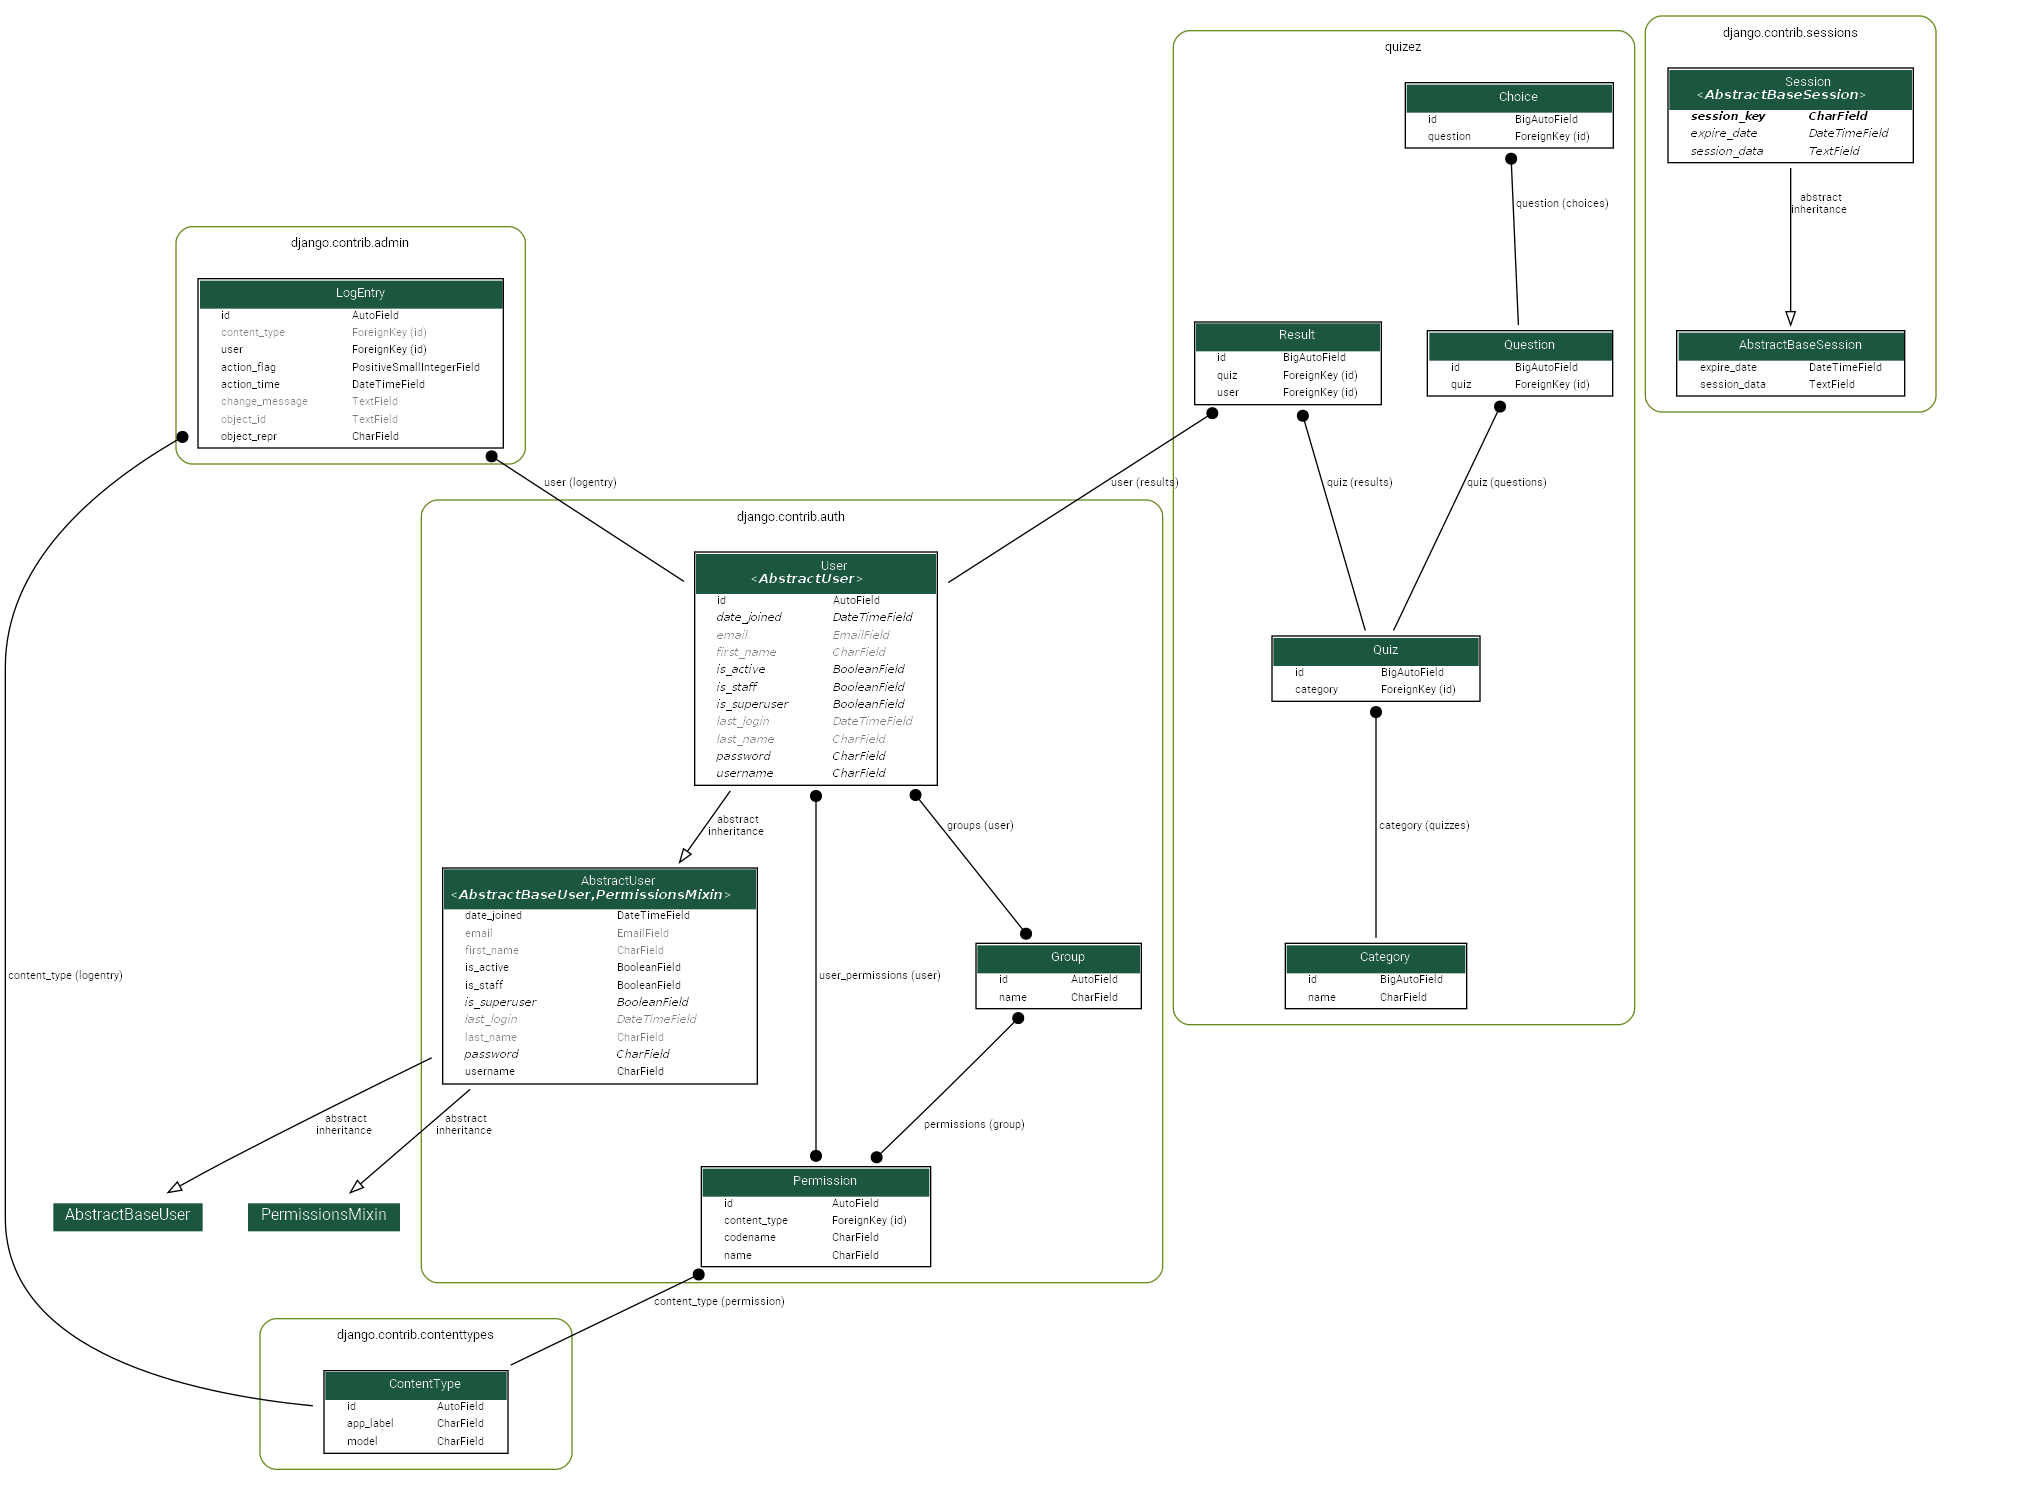
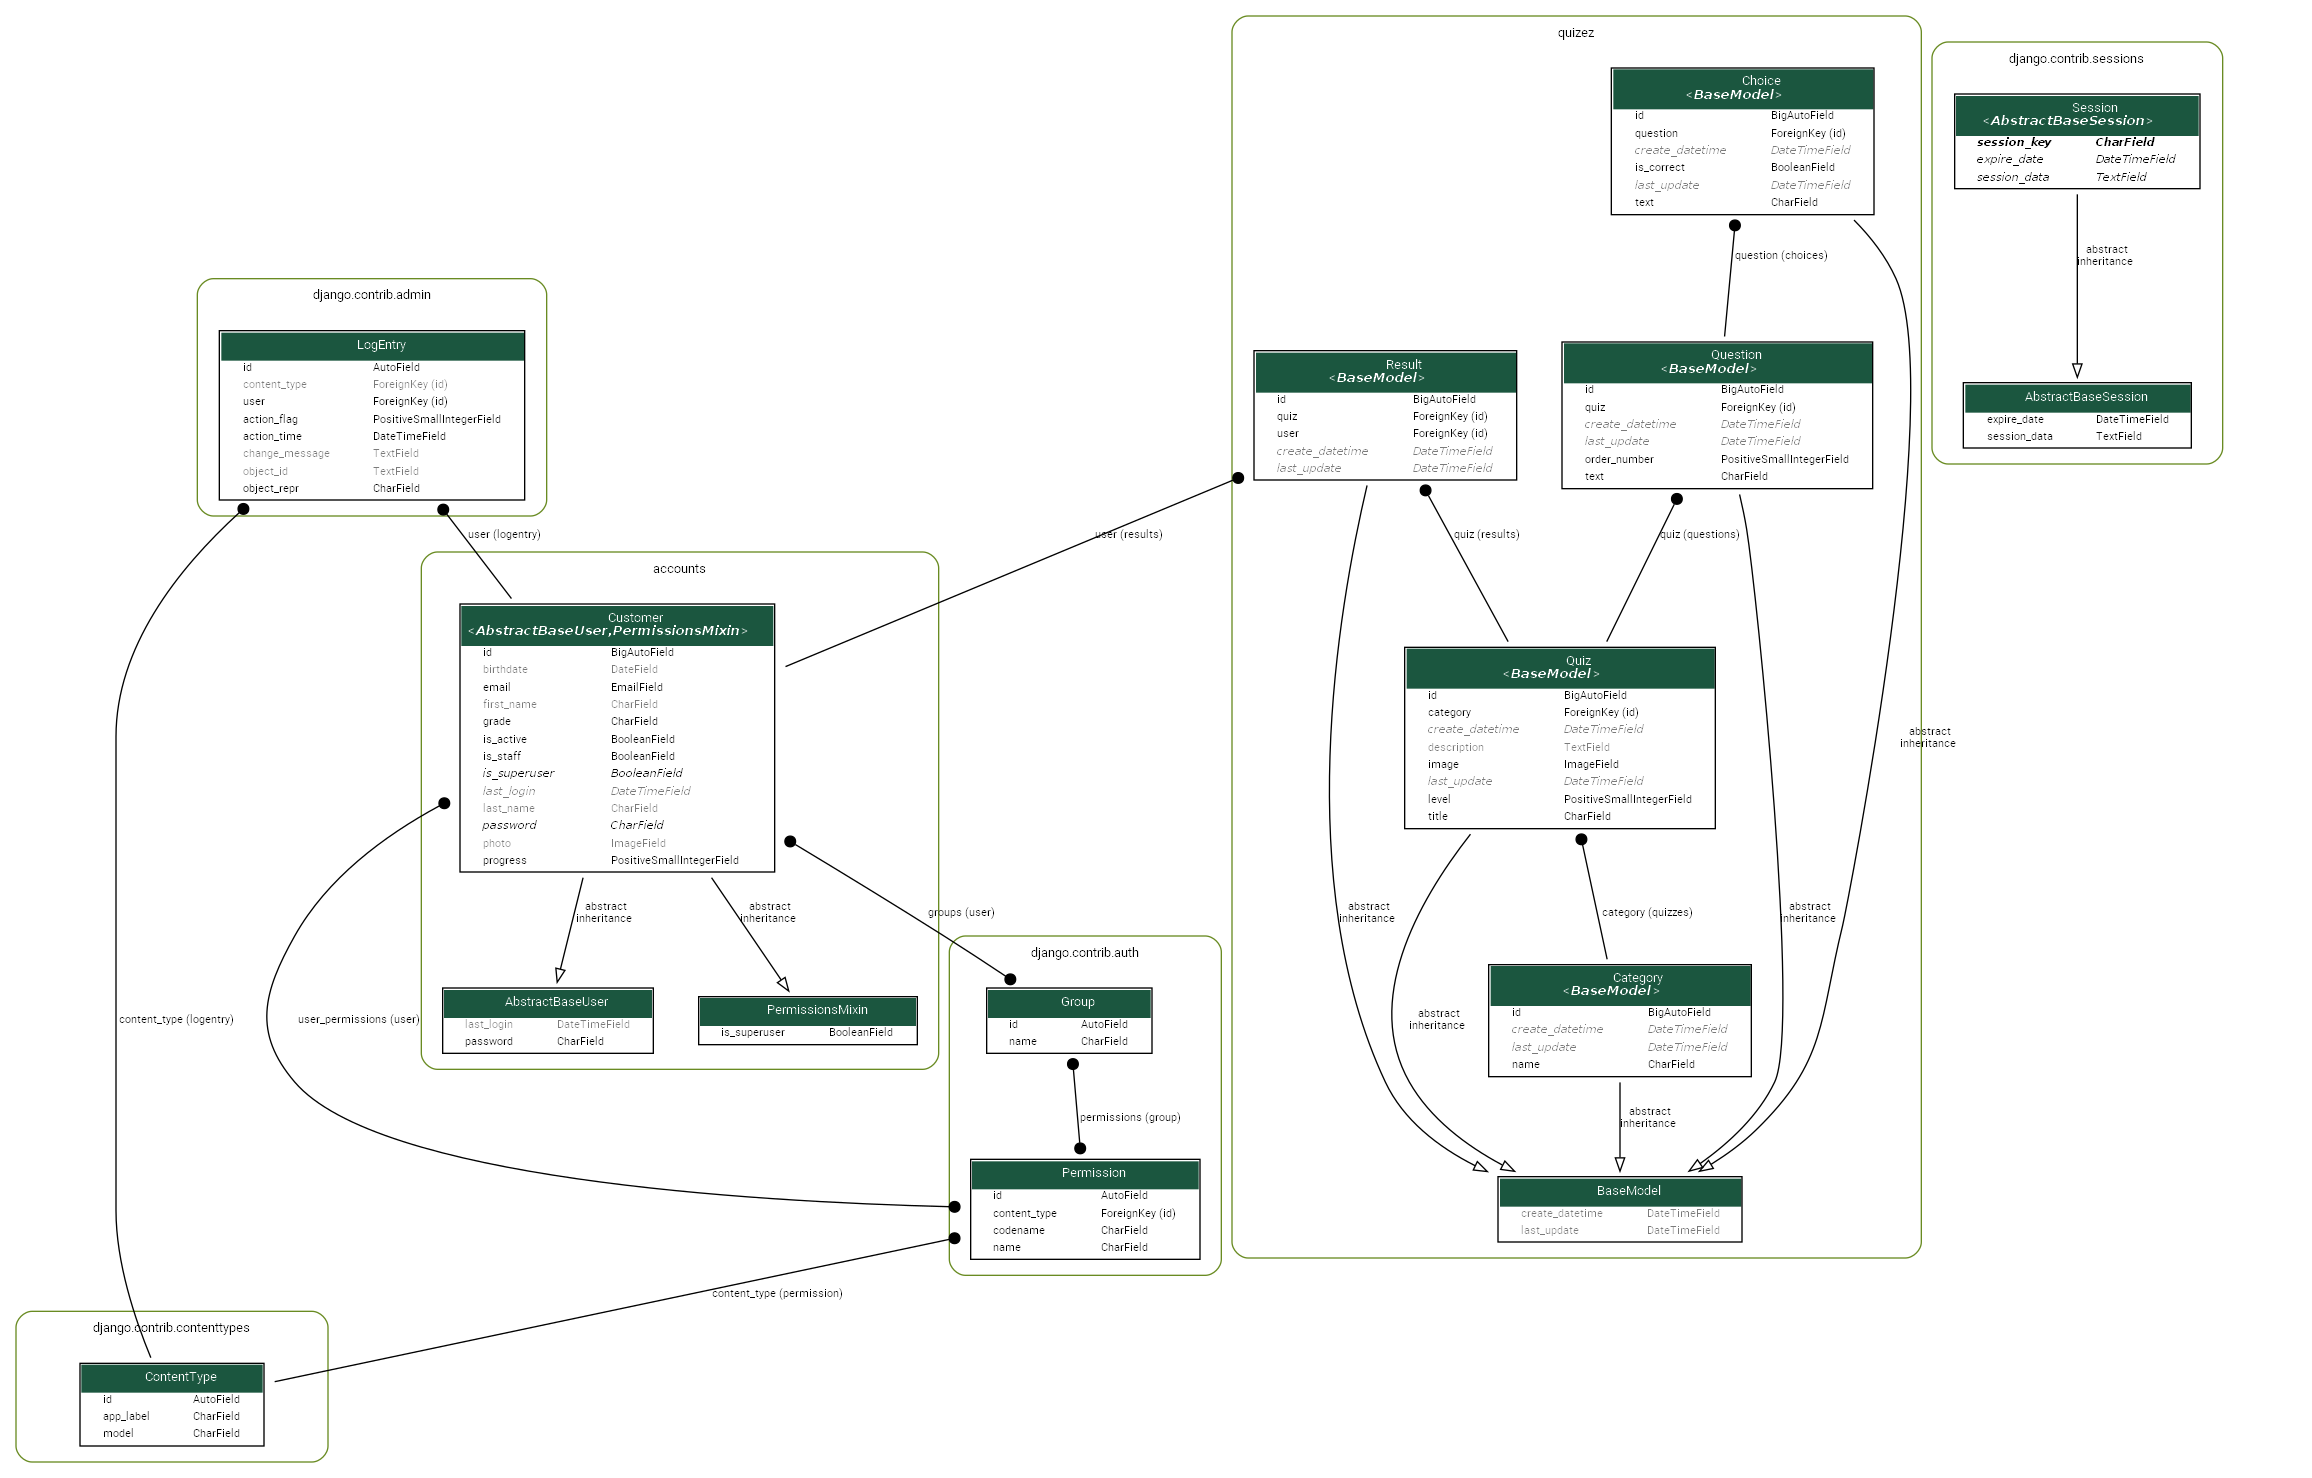
Added tests and API docs

diff --git a/src/accounts/tests/tests.py b/src/accounts/tests/tests.py
@@ -1,0 +1,43 @@
+import unittest
+from http import HTTPStatus
+
+from django.contrib.auth import get_user_model
+from django.test import Client, TestCase
+from django.urls import reverse
+
+
+class TestCustomer(TestCase):
+    def setUp(self) -> None:
+        self.client = Client()
+
+        self.user = get_user_model().objects.create(email="customer@customer.com")
+        self.user.set_password("123456")
+        self.user.save()
+
+        self.admin = get_user_model().objects.create(email="admin@customer.com", is_staff=True)
+        self.admin.set_password("123456")
+        self.admin.save()
+
+    def test_user_login_wrong_email(self):
+        user_login = self.client.login(email="wrong_email", password="123456")
+        self.assertFalse(user_login)
+
+    def test_user_login_wrong_password(self):
+        user_login = self.client.login(email="customer@customer.com", password="wrong_password")
+        self.assertFalse(user_login)
+
+    @unittest.skip("We dont have index page")
+    def test_user_access(self):
+        self.client.force_login(self.user)
+        response = self.client.get(reverse("index"))
+        self.assertEqual(response.status_code, HTTPStatus.OK)
+
+    def test_user_access_admin_panel(self):
+        self.client.force_login(self.user)
+        response = self.client.get(reverse("admin:index"))
+        self.assertEqual(response.status_code, HTTPStatus.FOUND)
+
+    def test_admin_access_admin_panel(self):
+        self.client.force_login(self.admin)
+        response = self.client.get(reverse("admin:index"))
+        self.assertEqual(response.status_code, HTTPStatus.OK)

diff --git a/src/api/tests/tests.py b/src/api/tests/tests.py
@@ -1,0 +1,33 @@
+from django.contrib.auth import get_user_model
+from django.test import TestCase
+from django.urls import reverse
+from rest_framework.status import (HTTP_200_OK, HTTP_401_UNAUTHORIZED,
+                                   HTTP_403_FORBIDDEN)
+from rest_framework.test import APIClient
+
+from core.utils.samples import sample_question, sample_quiz
+
+
+class TestAPI(TestCase):
+    def setUp(self):
+        self.client = APIClient()
+        self.quiz = sample_quiz(level=1, title="test", description="TEST")
+        self.question = sample_question(quiz=self.quiz, order_number=1)
+        self.user = get_user_model().objects.create(email="test@customer.com")
+        self.user.set_password("123456")
+        self.user.save()
+
+    def test_question_detail(self):
+        self.client.force_authenticate(user=self.user)
+
+        result = self.client.get(
+            reverse("api:question_detail", kwargs={"pk": self.quiz.pk, "order": self.question.order_number})
+        )
+        self.assertEqual(result.status_code, HTTP_200_OK)
+        self.assertEqual(result.data, {"id": 1, "order_number": 1, "text": "Some text", "choices": []})
+
+    def test_question_detail_no_access(self):
+        result = self.client.get(
+            reverse("api:question_detail", kwargs={"pk": self.quiz.pk, "order": self.question.order_number})
+        )
+        self.assertEqual(result.status_code, HTTP_401_UNAUTHORIZED)

diff --git a/src/api/urls.py b/src/api/urls.py
@@ -15,7 +15,9 @@ Including another URLconf
 """
 from django.contrib import admin
 from django.urls import include, path
-from rest_framework import routers
+from drf_yasg import openapi
+from drf_yasg.views import get_schema_view
+from rest_framework import permissions, routers
 
 from api.views import QuestionDetailView, QuizListView, UserViewSet
 from quizez.models import Question
@@ -24,9 +26,26 @@ app_name = "api"
 routes = routers.DefaultRouter()
 routes.register("customers", UserViewSet)
 
+schema_view = get_schema_view(
+    openapi.Info(
+        title="Quizez API",
+        default_version="v1",
+        description="Test description",
+        terms_of_service="https://www.google.com/policies/terms/",
+        contact=openapi.Contact(email="contact@snippets.local"),
+        license=openapi.License(name="BSD License"),
+    ),
+    public=True,
+    permission_classes=[
+        permissions.AllowAny,
+    ],
+)
+
 urlpatterns = [
     path("", include(routes.urls)),
     path("auth/", include("rest_framework.urls")),
+    path("docs/", schema_view.with_ui("swagger", cache_timeout=0), name="swagger_docs"),
+    path("auth/", include("djoser.urls.jwt")),
     path("quiz/<int:pk>/question/<int:order>/", QuestionDetailView.as_view(), name="question_detail"),
     path("quiz/", QuizListView.as_view(), name="quiz_list"),
 ]

diff --git a/src/config/settings/base.py b/src/config/settings/base.py
@@ -9,7 +9,7 @@ https://docs.djangoproject.com/en/4.1/topics/settings/
 For the full list of settings and their values, see
 https://docs.djangoproject.com/en/4.1/ref/settings/
 """
-
+from datetime import timedelta
 from pathlib import Path
 
 # Build paths inside the project like this: BASE_DIR / 'subdir'.
@@ -32,6 +32,7 @@ INSTALLED_APPS = [
     "django.contrib.staticfiles",
     "rest_framework",
     "django_extensions",
+    "drf_yasg",
     "accounts",
     "quizez",
     "core",
@@ -99,6 +100,25 @@ AUTH_PASSWORD_VALIDATORS = [
 AUTH_USER_MODEL = "accounts.Customer"
 # Internationalization
 # https://docs.djangoproject.com/en/4.1/topics/i18n/
+
+REST_FRAMEWORK = {
+    "DEFAULT_AUTHENTICATION_CLASSES": ("rest_framework_simplejwt.authentication.JWTAuthentication",),
+    "DEFAULT_PERMISSION_CLASSES": ["rest_framework.permissions.IsAuthenticated"],
+}
+
+SIMPLE_JWT = {
+    "AUTH_HEADER_TYPES": ("Bearer",),
+    "ACCESS_TOKEN_LIFETIME": timedelta(minutes=120),
+    "REFRESH_TOKEN_LIFETIME": timedelta(days=7),
+}
+
+DJOSER = {
+    "LOGIN_FIELD": "email",
+    "USER_CREATE_PASSWORD_RETYPE": True,
+    "PASSWORD_RESET_CONFIRM_RETYPE": True,
+    "PASSWORD_RESET_SHOW_EMAIL_NOT_FOUND": True,
+    "PASSWORD_RESET_CONFIRM_URL": "auth/password-reset/{uid}/{token}",
+}
 
 LANGUAGE_CODE = "en-us"
 

diff --git a/src/api/views.py b/src/api/views.py
@@ -1,9 +1,11 @@
 from rest_framework.generics import ListAPIView, RetrieveAPIView
+from rest_framework.permissions import AllowAny, IsAuthenticated
 from rest_framework.viewsets import ModelViewSet
 
 from accounts.models import Customer
 from api.serializers import (CustomerSerializer, QuestionSerializer,
                              QuizSerializer)
+from core.permissions import IsSuperUser
 from quizez.models import Question, Quiz
 
 
@@ -13,7 +15,7 @@ class UserViewSet(ModelViewSet):
 
 
 class QuestionDetailView(RetrieveAPIView):
-    # queryset = Question.objects.all()
+    permission_classes = [IsAuthenticated | IsSuperUser]
     serializer_class = QuestionSerializer
 
     def get_object(self):
@@ -21,6 +23,5 @@ class QuestionDetailView(RetrieveAPIView):
 
 
 class QuizListView(ListAPIView):
-
     queryset = Quiz.objects.all()
     serializer_class = QuizSerializer

diff --git a/src/quizez/tests/tests_models.py b/src/quizez/tests/tests_models.py
@@ -1,22 +1,7 @@
 from django.core.exceptions import ValidationError
 from django.test import TestCase
 
-from quizez.models import Category, Question, Quiz
-
-
-def sample_quiz(title, **params):
-    defaults = {
-        "description": "Some text",
-        "category": Category.objects.create(),
-    }
-    defaults.update(params)
-    return Quiz.objects.create(title=title, **defaults)
-
-
-def sample_question(quiz, order_number, **params):
-    defaults = {"text": "Some text"}
-    defaults.update(params)
-    return Question.objects.create(quiz=quiz, order_number=order_number, **defaults)
+from core.utils.samples import sample_question, sample_quiz
 
 
 class TestQuizModel(TestCase):

diff --git a/src/core/utils/samples.py b/src/core/utils/samples.py
@@ -1,0 +1,16 @@
+from quizez.models import Category, Question, Quiz
+
+
+def sample_quiz(title, **params):
+    defaults = {
+        "description": "Some text",
+        "category": Category.objects.create(),
+    }
+    defaults.update(params)
+    return Quiz.objects.create(title=title, **defaults)
+
+
+def sample_question(quiz, order_number, **params):
+    defaults = {"text": "Some text"}
+    defaults.update(params)
+    return Question.objects.create(quiz=quiz, order_number=order_number, **defaults)

diff --git a/src/accounts/models.py b/src/accounts/models.py
@@ -53,3 +53,6 @@ class Customer(AbstractBaseUser, PermissionsMixin):
     def email_user(self, subject, message, from_email=None, **kwargs):
         """Send an email to this user."""
         send_mail(subject, message, from_email, [self.email], **kwargs)
+
+
+# eyJhbGciOiJIUzI1NiIsInR5cCI6IkpXVCJ9.eyJ0b2tlbl90eXBlIjoiYWNjZXNzIiwiZXhwIjoxNjY0NjIxMDY3LCJqdGkiOiI3ZmMwY2E1MTYzMmU0NjI5YjFlYjg5OWZhZWI0YWI0NyIsInVzZXJfaWQiOjF9.rviXpi9zqUXsaLYU9L6_uSSa3tcWhhL3isLcZwU8Jx0

diff --git a/src/core/permissions.py b/src/core/permissions.py
@@ -1,0 +1,8 @@
+from rest_framework.permissions import BasePermission
+
+
+class IsSuperUser(BasePermission):
+    def has_permission(self, request, view):
+        if request.user.is_authenticated and request.user.is_superuser:
+            return True
+        return False

diff --git a/src/core/views.py b/src/core/views.py
@@ -1,3 +1,1 @@
 from django.shortcuts import render
-
-# Create your views here.
